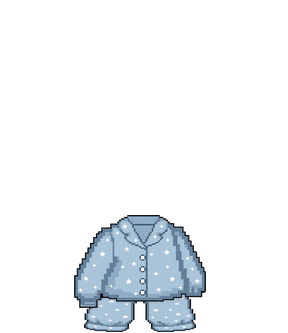
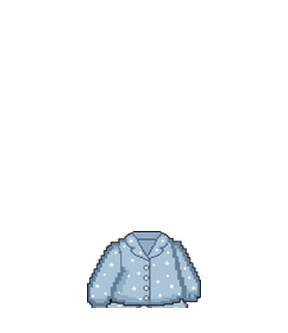
睡衣改成上衣版并对齐躯干；不再自动换睡衣，只提示；默认存档自带睡衣

Changed region(s): [[0.25, 0.6306, 0.7188, 1.0]]

diff --git a/index.html b/index.html
@@ -1820,7 +1820,7 @@ const GTHUMB = {"tee_white":"art/g25.png","tee_black":"art/g26.png","tee_grey":"
       mood:55, love:0, coins:CFG.START_COIN, happy:0,
       lastMoodAt:Date.now(), cd:{pat:0,feed:0,talk:0},
       lastDay:todayKey(), streak:1, unlocked:{},
-      owned:{ clothes:[], gear:[] },
+      owned:{ clothes:["pajama"], gear:[] },
       wearing:[], postcards:[], trip:null, house:"forest",
       photos:[], vase:[], gift:null, lastSeen:0,
       decayApplied:0, routeStep:0, whispers:[], place:{his:{name:"岳阳",lat:29.36778,lon:113.12019}, her:{name:"南京",lat:32.06167,lon:118.77778}}, wx:null,
@@ -1848,6 +1848,9 @@ const GTHUMB = {"tee_white":"art/g25.png","tee_black":"art/g26.png","tee_grey":"
         s.furnOwned = ["bed","sofa","table","rug"];
         s.furn = {3:"bed",5:"table",4:"rug",6:"sofa"};
       }
+      s.owned = s.owned || {};
+      s.owned.clothes = s.owned.clothes || [];
+      if(s.owned.clothes.indexOf("pajama") < 0) s.owned.clothes.push("pajama");
       if(!s.daily) s.daily = { d:"", pat:0, water:0, whisper:0, got:{} };
       s.fit = Object.assign({kg:70,startKg:70,height:185,goal:"cut",bulkBurned:0,
         steps:0,mins:0,act:"walk",day:"",burned:0,loggedDay:""}, s.fit||{});
@@ -3291,7 +3294,7 @@ const GTHUMB = {"tee_white":"art/g25.png","tee_black":"art/g26.png","tee_grey":"
   }
 
   /* ================= 商店 / 衣柜 ================= */
-  const CATNAME = { top:"👕 上装", outer:"🧥 外套", brand:"🏷 牌子货", acc:"🧢 配饰" };
+  const CATNAME = { top:"👕 上装", outer:"🧥 外套", brand:"🏷 牌子货", acc:"🧢 配饰", sleep:"🛏 睡衣" };
   function shopItem(it, kind){
     const own = kind==="cloth" ? has("clothes", it.id)
               : kind==="gear"  ? has("gear", it.id)
@@ -3386,7 +3389,7 @@ const GTHUMB = {"tee_white":"art/g25.png","tee_black":"art/g26.png","tee_grey":"
       wl.innerHTML = '<div class="empty" style="grid-column:1/-1">衣柜空空的<br>先去商店买一件？</div>';
       return;
     }
-    const order = ["top","outer","brand","acc"];
+    const order = ["sleep","top","outer","brand","acc"];
     const out = [head];
     order.forEach(g=>{
       const list = owned.filter(c=>c.cat===g);
@@ -4203,6 +4206,19 @@ const GTHUMB = {"tee_white":"art/g25.png","tee_black":"art/g26.png","tee_grey":"
   if(typeof renderGarden === "function") window.__GARDEN_RENDER = renderGarden;
   if(typeof renderVase === "function") window.__VASE_RENDER = renderVase;
   window.__YS = S; window.__YSAVE = save; window.__YRENDER = render;
+  try{
+    var _st = (typeof S === "function") ? S() : S;
+    if(_st){
+      _st.owned = _st.owned || {};
+      _st.owned.clothes = _st.owned.clothes || [];
+      if(_st.owned.clothes.indexOf("pajama") < 0){
+        _st.owned.clothes.push("pajama");
+        if(typeof save === "function") save();
+        if(typeof render === "function") render();
+        if(typeof renderWardrobe === "function") renderWardrobe();
+      }
+    }
+  }catch(e){}
   window.__ARENDER = (typeof renderAccessories === "function") ? renderAccessories : null;
   window.__CLOTHES = CLOTHES; window.__GARMENTS = GARMENTS;
   window.__SRENDER = renderShop;
@@ -5207,6 +5223,7 @@ body.night #nightVeil{opacity:1;}
     CL.push({id:'pajama', name:'睡衣', cat:'sleep', slot:'body', price:0, desc:'晚上换上它', sprite:'pajama'});
   }
   if(GA) GA['pajama'] = 'art/pajama.png';
+
   var stage = document.getElementById('stage');
   var zzz = document.createElement('div');
   zzz.id = 'pjZzz'; zzz.textContent = '\uD83D\uDCA4';
@@ -5223,31 +5240,18 @@ body.night #nightVeil{opacity:1;}
   function isPajamaTime(){ var h = new Date().getHours(); return h >= 22 || h < 6; }
   function pajamaTick(){
     var st = S(); if(!st || st.trip) return;
-    if(!Array.isArray(st.wearing)) st.wearing = [];
-    var cur = bodyItemOf(st.wearing);
     var night = isPajamaTime();
     if(zzz) zzz.style.display = night ? 'block' : 'none';
-    if(night){
-      if(cur && cur.id === 'pajama') return;
-      if(cur && st._dayOutfit && cur.id !== st._dayOutfit) return; /* 她半夜自己换了衣服，别抢 */
-      if(cur) st._dayOutfit = cur.id;
-      st.wearing = st.wearing.filter(function(id){
-        var it = null, list = window.__CLOTHES || [];
-        for(var k=0;k<list.length;k++){ if(list[k].id === id) it = list[k]; }
-        return !(it && it.slot === 'body');
-      });
-      st.wearing.push('pajama');
-      save(); render();
-      var b = document.getElementById('bubble');
-      if(b) b.textContent = '\u6362\u4E0A\u7761\u8863\u4E86\uFF0C\u5C0F\u8D8A\uFF0C\u4ECA\u665A\u65E9\u70B9\u7761\u3002';
-    } else {
-      if(cur && cur.id === 'pajama'){
-        st.wearing = st.wearing.filter(function(id){ return id !== 'pajama'; });
-        if(st._dayOutfit) st.wearing.push(st._dayOutfit);
-        save(); render();
-      }
-    }
+    if(!night) return;
+    /* 不再替她换衣服，只提一句；换不换她自己决定 */
+    if(st._pjHintDay === todayKey()) return;
+    var cur = bodyItemOf(Array.isArray(st.wearing) ? st.wearing : []);
+    if(cur && cur.id === 'pajama') return;
+    st._pjHintDay = todayKey();
+    save();
+    say("快睡了吧。衣柜里有睡衣，想换就换，不换也行。");
   }
+
 
   /* ---------- 时间胶囊：写信 + 选日子，到日子自动弹，不显示倒数 ---------- */
   /* 预置第一封信：用户亲笔，日期就是今天，发版后她一点开游戏就会弹出来 */
